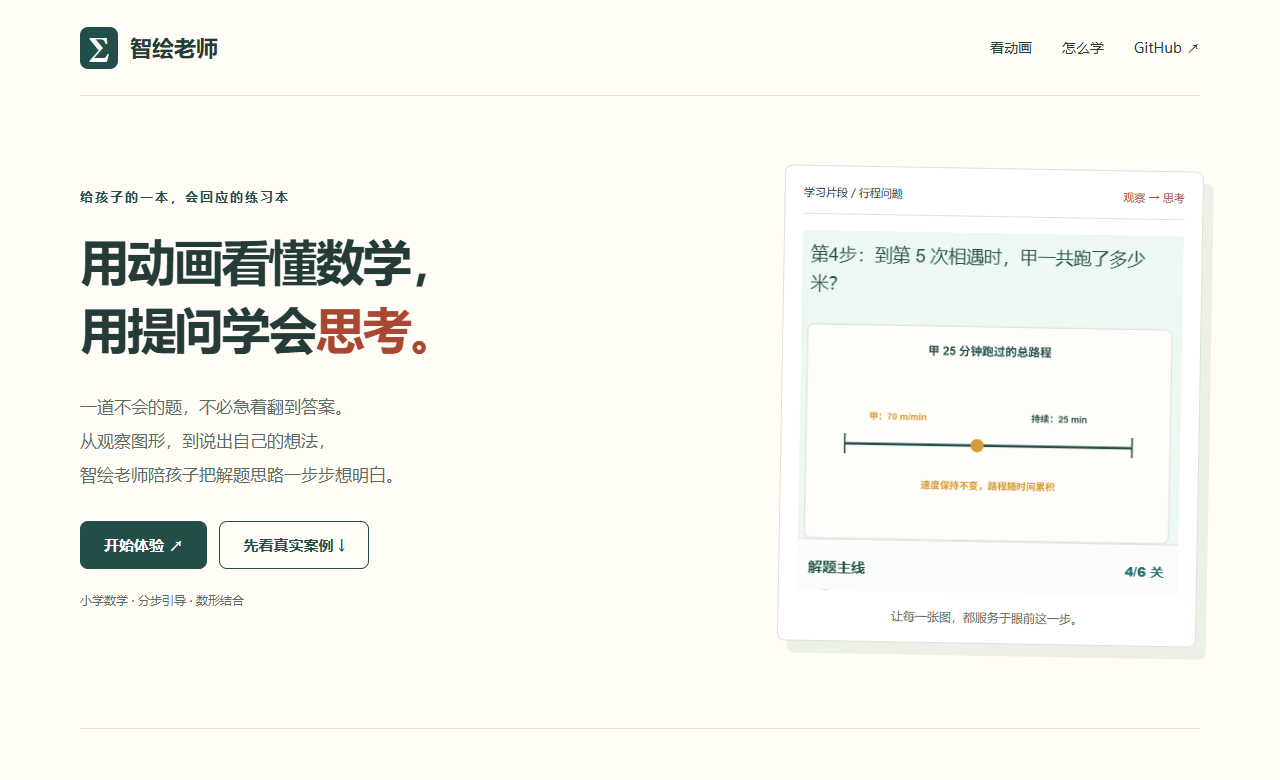
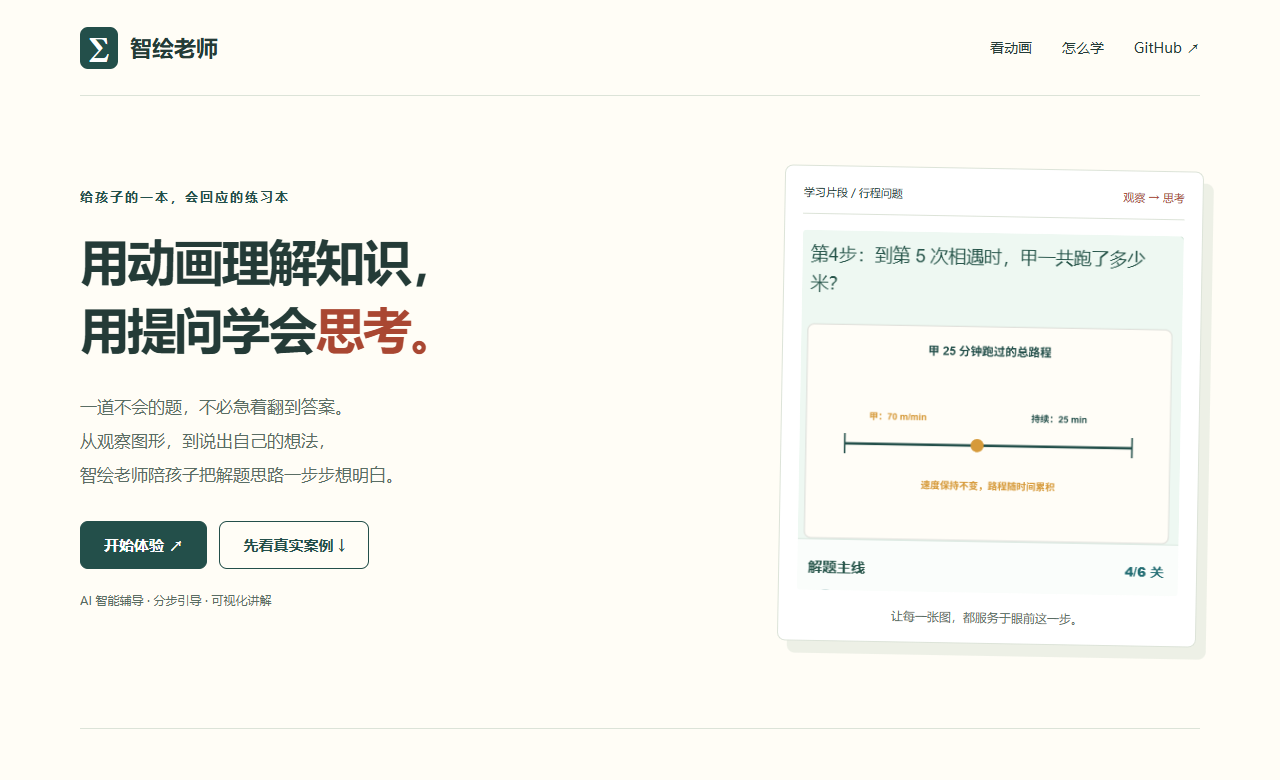
docs: position Zhihui Teacher as AI intelligent tutoring

Changed region(s): [[0.1562, 0.3077, 0.3438, 0.3692], [0.0625, 0.7385, 0.2188, 0.8]]

diff --git a/index.html b/index.html
@@ -3,20 +3,20 @@
 <head>
   <meta charset="utf-8">
   <meta name="viewport" content="width=device-width, initial-scale=1">
-  <title>智绘老师｜用动画看懂数学，用提问学会思考</title>
-  <meta name="description" content="智绘老师面向小学数学与小升初学习，结合拍照识题、分步提问和数形结合动画，陪孩子理解解题思路。查看真实案例与开源宣传站。">
+  <title>智绘老师｜AI 智能辅导，用提问学会思考</title>
+  <meta name="description" content="智绘老师是一款 AI 智能辅导产品，结合拍照识题、分步提问和可视化讲解，陪伴学习者理解问题、理清思路。查看真实案例与开源宣传站。">
   <meta name="robots" content="index,follow,max-image-preview:large">
   <meta name="theme-color" content="#234f4a">
   <link rel="canonical" href="https://exam.thinkmoon.cn/">
   <meta property="og:type" content="website">
   <meta property="og:locale" content="zh_CN">
-  <meta property="og:title" content="智绘老师｜用动画看懂数学，用提问学会思考">
-  <meta property="og:description" content="拍题开始，动画帮助理解，提问带着思考。小学数学 AI 辅导与数形结合案例。">
+  <meta property="og:title" content="智绘老师｜AI 智能辅导，用提问学会思考">
+  <meta property="og:description" content="拍题开始，动画帮助理解，提问带着思考。AI 智能辅导与可视化讲解案例。">
   <meta property="og:url" content="https://exam.thinkmoon.cn/">
   <meta property="og:image" content="https://raw.githubusercontent.com/thinkmoon/zhihui-teacher/main/assets/overview.png">
   <meta name="twitter:card" content="summary_large_image">
   <link rel="stylesheet" href="styles.css">
-  <script type="application/ld+json">{"@context":"https://schema.org","@type":"SoftwareApplication","name":"智绘老师","url":"https://exam.thinkmoon.cn/","applicationCategory":"EducationalApplication","operatingSystem":"Web","inLanguage":"zh-CN","description":"结合拍照识题、分步提问与数形结合讲解的小学数学辅导产品。"}</script>
+  <script type="application/ld+json">{"@context":"https://schema.org","@type":"SoftwareApplication","name":"智绘老师","url":"https://exam.thinkmoon.cn/","applicationCategory":"EducationalApplication","operatingSystem":"Web","inLanguage":"zh-CN","description":"结合拍照识题、分步提问与可视化讲解的 AI 智能辅导产品。"}</script>
 </head>
 <body>
   <a class="skip" href="#main">跳到正文</a>
@@ -28,10 +28,10 @@
     <section class="hero wrap">
       <div>
         <p class="eyebrow">给孩子的一本，会回应的练习本</p>
-        <h1>用动画看懂数学，<br>用提问学会<span>思考。</span></h1>
+        <h1>用动画理解知识，<br>用提问学会<span>思考。</span></h1>
         <p class="intro">一道不会的题，不必急着翻到答案。<br>从观察图形，到说出自己的想法，<br>智绘老师陪孩子把解题思路一步步想明白。</p>
         <div class="actions"><a class="button" href="https://exam.thinkmoon.cn/">开始体验 ↗</a><a class="button secondary" href="#visual">先看真实案例 ↓</a></div>
-        <p class="small">小学数学 · 分步引导 · 数形结合</p>
+        <p class="small">AI 智能辅导 · 分步引导 · 可视化讲解</p>
       </div>
       <figure class="hero-sheet">
         <div class="sheet-title"><span>学习片段 / 行程问题</span><span class="tag">观察 → 思考</span></div>
@@ -67,8 +67,8 @@
     <section class="section wrap faq">
       <p class="eyebrow">03 / 你可能想知道</p>
       <h2>体验前的几个小问题。</h2>
-      <details open><summary>适合谁使用？</summary><p>主要面向小学数学、小升初学习和家长陪伴场景，适合想要理解解题过程的学生。</p></details>
-      <details><summary>每道题都会生成动画吗？</summary><p>不保证。可视化服务于适合表达的数学关系，具体形式取决于题目、步骤和生成结果。</p></details>
+      <details open><summary>适合谁使用？</summary><p>适合希望理解问题、理清思路的学习者，以及提供学习陪伴的家长。具体题目的辅导效果以实际体验为准。</p></details>
+      <details><summary>每道题都会生成动画吗？</summary><p>不保证。可视化服务于适合表达的知识与关系，具体形式取决于题目、步骤和生成结果。</p></details>
       <details><summary>GitHub 上开源了什么？</summary><p>本宣传站的 HTML/CSS 和公开展示素材。完整辅导应用、后端与模型配置不在此仓库中；代码和素材的授权范围请查看仓库说明。</p></details>
       <details><summary>可以完全依赖 AI 的答案吗？</summary><p>AI 识题和讲解可能出错，关键结论应结合原题与老师的解释核对。产品不承诺提分或所有题型覆盖。</p></details>
     </section>

diff --git a/README.md b/README.md
@@ -4,7 +4,7 @@
 
 **拍题开始，动画帮助理解，提问带着思考。**
 
-面向小学数学与小升初学习场景的 AI 作业辅导，让孩子在分步提问与数形结合中理解解题过程。
+智绘老师是一款 AI 智能辅导产品，通过分步提问与可视化讲解，陪伴学习者理解问题、理清思路。
 
 [立即体验](https://exam.thinkmoon.cn/) · [在线宣传页](https://thinkmoon.github.io/zhihui-teacher/) · [动画与截图](#动画与截图) · [本地预览](#本地预览) · [English](README.en.md)
 
@@ -15,7 +15,7 @@
 
 ![智绘老师：分步引导与数形结合](assets/overview.png)
 
-## 让抽象的数学关系看得见
+## 让抽象的知识看得见
 
 遇到不会的题，孩子需要的不只是一个答案，还需要理解「为什么这样想」。智绘老师围绕当前题目组织解题步骤，用提问帮助孩子表达思路，在适合的步骤用图形和动画呈现数量关系，最后整理学习小结。
 
@@ -55,11 +55,11 @@
 ## 开始体验
 
 1. 打开 **[exam.thinkmoon.cn](https://exam.thinkmoon.cn/)**，进入产品并登录或注册。
-2. 上传数学题，或选择产品内提供的经典案例。
+2. 上传题目，或选择产品内提供的经典案例。
 3. 阅读问题、观察图形、尝试作答，再跟随提示继续。
 4. 完成后回顾解题过程和学习小结。
 
-适合需要理解解题思路的小学生、小升初学生，以及陪伴孩子学习的家长。AI 识题和讲解可能出现错误，关键结论应结合题目与老师的解释核对；本项目不承诺成绩提升或所有题型覆盖。
+适合希望理解问题、理清解题思路的学习者，以及提供学习陪伴的家长。AI 识题和讲解可能出现错误，关键结论应结合题目与老师的解释核对；本项目不承诺成绩提升或所有题型覆盖。
 
 ## 这个仓库开源什么
 
@@ -112,7 +112,7 @@ LICENSE          宣传站代码的 MIT 许可证
 
 **这是直接给答案的拍照搜题吗？** 主要体验是分步提问和提示，帮助学生理解过程；完成后可以回顾完整解题小结。
 
-**所有题目都有动画吗？** 不保证。可视化服务于适合表达的数学关系，具体形式与覆盖范围以实际体验为准。
+**所有题目都有动画吗？** 不保证。可视化服务于适合表达的知识与关系，具体形式与覆盖范围以实际体验为准。
 
 **可以下载这个仓库部署完整辅导系统吗？** 不可以，本仓库只包含宣传站。完整产品请通过官网体验。
 

diff --git a/README.en.md b/README.en.md
@@ -1,15 +1,15 @@
 # Zhihui Teacher · 智绘老师
 
-**Start with a math problem. Understand through visuals. Think through guided questions.**
+**Start with a question. Understand through visuals. Think through guided questions.**
 
 [Try the product](https://exam.thinkmoon.cn/) · [Live marketing site](https://thinkmoon.github.io/zhihui-teacher/) · [中文介绍](README.md)
 
-![Guided math learning with visual explanations](assets/overview.png)
+![AI-powered tutoring with visual explanations](assets/overview.png)
 
-Zhihui Teacher is a Chinese-language AI math tutoring product for primary-school learners. It combines photo-based problem input, step-by-step questions, visual explanations and learning summaries.
+Zhihui Teacher is a Chinese-language AI-powered intelligent tutoring product. It combines photo-based problem input, step-by-step questions, visual explanations and learning summaries.
 
 - **Guided reasoning:** students respond to questions and hints as they work through a solution.
-- **Visual math:** diagrams and animations help explain relationships involving fractions, areas, distances and other quantities.
+- **Visual explanations:** diagrams and animations make abstract relationships easier to understand. The examples in this repository demonstrate fractions, areas and distances.
 - **Review:** students can revisit learning summaries and records.
 
 [![Area visualization from an existing product example](assets/area-demo.gif)](https://exam.thinkmoon.cn/)

diff --git a/CONTRIBUTING.md b/CONTRIBUTING.md
@@ -6,7 +6,7 @@
 
 1. 行为、目录或预览方式发生变化时，先更新 README，再修改实现。
 2. 正式官网保持 `https://exam.thinkmoon.cn/`；不得把体验按钮改为不可信地址。
-3. 产品介绍以真实可用能力为准，区分预置案例和拍题生成讲解，不承诺全题型、完美识别或提分效果。
+3. 对外产品定位统一为「AI 智能辅导」，不以小学或数学限定产品范围。现有数学截图和视频按具体案例描述，不据此承诺全学科或全年级覆盖。产品介绍以真实可用能力为准，区分预置案例和拍题生成讲解，不承诺全题型、完美识别或提分效果。
 4. 新增截图、视频前检查来源和个人信息，不上传密钥、学生数据、数据库、日志或环境配置。
 5. 提交 PR 时说明变更，并附上涉及页面的桌面端与移动端检查结果。
 
